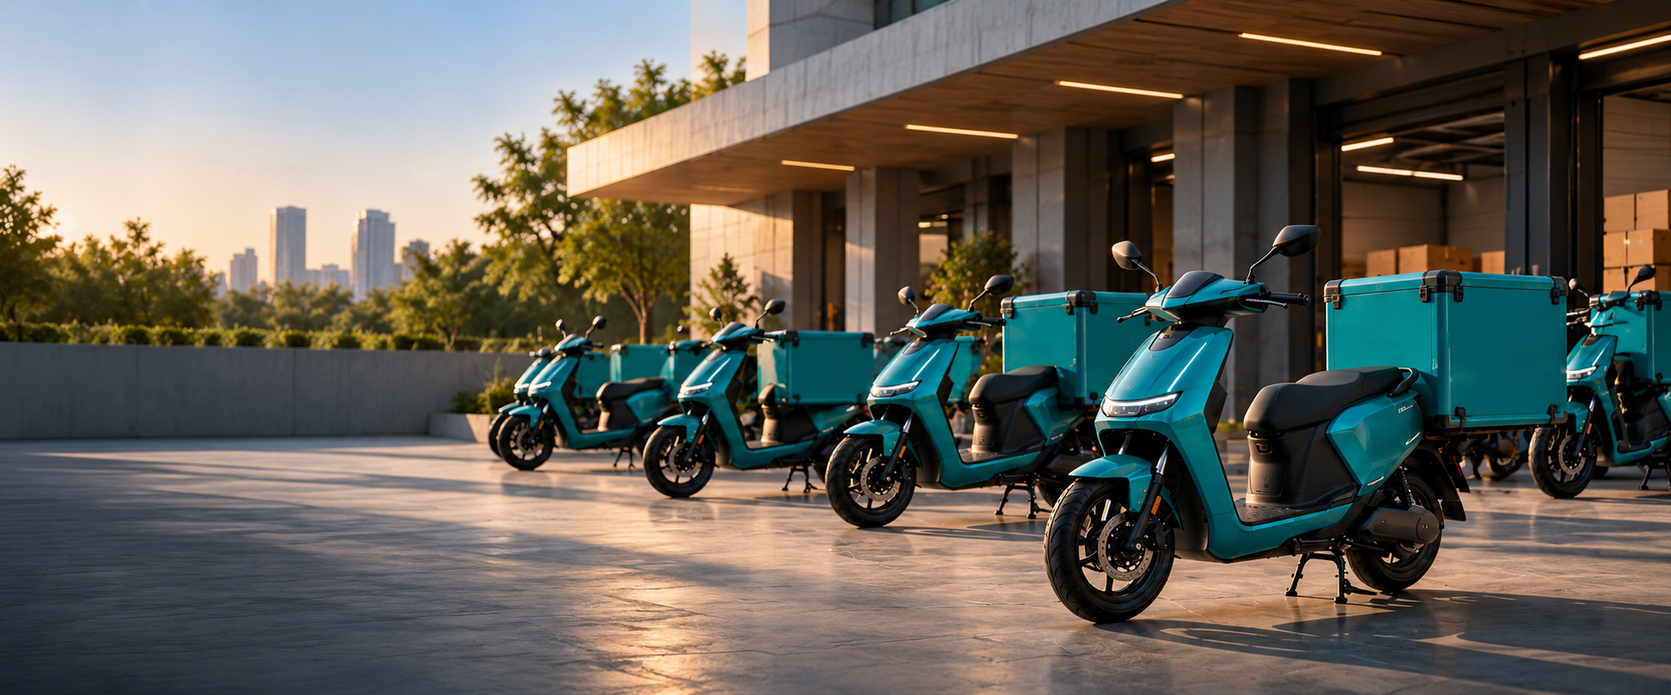
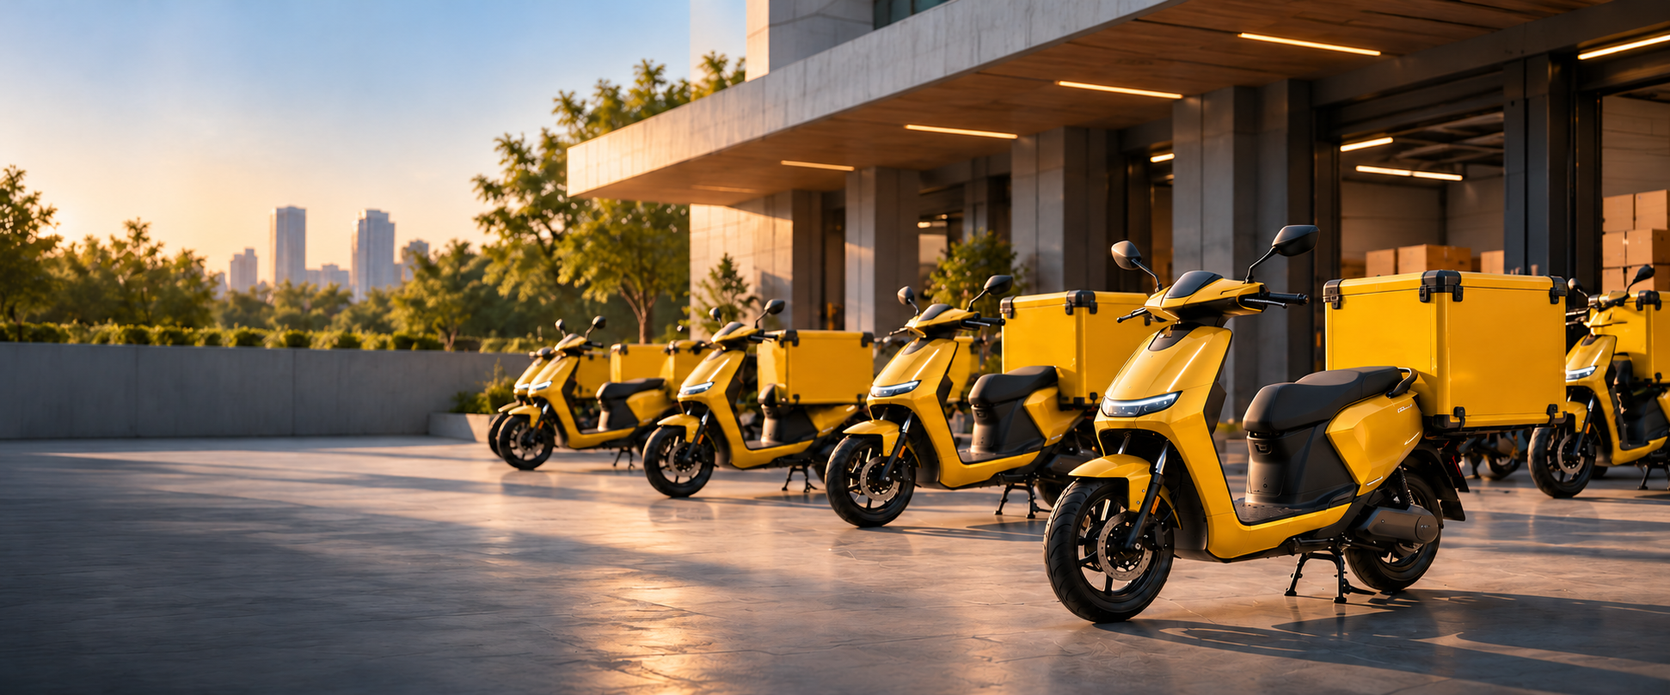
Add themed Arthasya interactions

diff --git a/src/arthasya.css b/src/arthasya.css
@@ -1,4 +1,15 @@
-:root{--arth-bg:#f5f4ef;--arth-ink:#142a32;--arth-teal:#1ca6aa;--arth-muted:#677478;--arth-line:#142a3226;--arth-gutter:clamp(22px,5vw,88px);font-family:Arial,Helvetica,sans-serif;color:var(--arth-ink);background:var(--arth-bg);color-scheme:light;font-synthesis:none}*{box-sizing:border-box}html{scroll-behavior:smooth;scroll-padding-top:80px}body{margin:0;overflow-x:hidden}h1,h2,h3,p{margin:0}a{color:inherit;text-decoration:none}button{font:inherit;color:inherit;cursor:pointer;border:0;background:none}img{display:block;max-width:100%}button,a{-webkit-tap-highlight-color:transparent}button:focus-visible,a:focus-visible{outline:3px solid #f15b4d;outline-offset:4px}[hidden]{display:none!important}.arth-container{margin-inline:var(--arth-gutter)}.arth-skip{position:fixed;top:-100px;left:20px;padding:12px 16px;background:var(--arth-ink);color:#fff;z-index:100}.arth-skip:focus{top:12px}.arth-header{height:82px;display:flex;align-items:center;justify-content:space-between;padding:10px var(--arth-gutter);position:absolute;inset:0 0 auto;z-index:10;color:#fff;background:linear-gradient(#08181bcc,transparent)}.arth-brand{display:block;width:100px}.arth-logo{width:100%;height:auto}.arth-nav{display:flex;align-items:center;gap:34px;font-size:13px}.arth-nav a{min-height:40px;display:flex;align-items:center}.arth-outline{border:1px solid #ffffff9c;color:#fff;min-height:40px;padding:8px 20px;font-size:13px}.arth-outline:hover{background:#fff1}.arth-menu-toggle,.arth-mobile-nav{display:none}.arth-slider{position:relative;height:min(780px,100svh);min-height:610px;background:#12252c;color:#fff;isolation:isolate}.arth-slides,.arth-slide{position:absolute;inset:0}.arth-slide{opacity:0;visibility:hidden;transition:opacity .65s ease,visibility .65s ease}.arth-slide.is-active{opacity:1;visibility:visible;z-index:1}.arth-slide-image{width:100%;height:100%;object-fit:cover;object-position:center}.arth-slide-shade{position:absolute;inset:0;background:linear-gradient(90deg,#08181dcc 0%,#08181d9e 27%,#08181d05 68%),linear-gradient(0deg,#08181da8 0%,transparent 40%)}.arth-slide-copy{position:absolute;left:var(--arth-gutter);bottom:clamp(130px,15vh,185px);max-width:550px}.arth-eyebrow{font-size:11px;font-weight:700;letter-spacing:.2em;line-height:1.5;color:#91d3cd;text-transform:uppercase}.arth-slide h1{font-size:clamp(48px,7vw,108px);line-height:.98;letter-spacing:-.06em;margin-top:18px;max-width:600px}.arth-slide-copy>p:not(.arth-eyebrow){font-size:clamp(16px,1.5vw,22px);line-height:1.45;color:#e9efea;max-width:420px;margin-top:22px}.arth-button{display:inline-flex;align-items:center;justify-content:space-between;gap:24px;min-height:52px;background:var(--arth-teal);color:#06262d;padding:14px 20px;font-size:14px;font-weight:700;transition:background .2s,transform .2s}.arth-button:hover{background:#5bc6c1;transform:translateY(-2px)}.arth-slide-link{margin-top:30px}.arth-arrow{width:21px;height:21px;flex-shrink:0}.arth-slider-chrome{position:absolute;left:var(--arth-gutter);right:var(--arth-gutter);bottom:28px;z-index:3}.arth-slider-controls{display:flex;align-items:center;gap:10px}.arth-slider-arrow,.arth-slider-pause{height:42px;min-width:42px;border:1px solid #fff8;color:#fff;display:inline-flex;align-items:center;justify-content:center}.arth-slider-arrow{font-size:22px}.arth-slider-arrow:hover,.arth-slider-pause:hover{background:#fff2}.arth-slider-pause{gap:8px;padding:0 13px;font-size:12px}.arth-pause-icon{font-size:12px;letter-spacing:-3px}.arth-slider-count{margin-left:auto;font-size:12px;color:#d3e1df;letter-spacing:.08em}.arth-slider-count strong{font-size:18px;color:#fff;margin-right:4px}.arth-slider-tabs{display:flex;gap:28px;border-top:1px solid #ffffff4d;margin-top:18px;padding-top:16px}.arth-slide-tab{display:flex;align-items:center;gap:10px;color:#d7e1de;font-size:12px;opacity:.72;position:relative}.arth-slide-tab span{font-size:10px;color:#9ed6d1}.arth-slide-tab.is-active,.arth-slide-tab:hover{opacity:1;color:#fff}.arth-slide-tab.is-active:after{content:'';position:absolute;left:0;right:0;top:-17px;height:2px;background:#91d3cd}.arth-progress{height:2px;background:#ffffff38;margin-top:12px;display:none}.arth-progress span{display:block;height:100%;width:25%;background:#91d3cd;transition:width .35s}.arth-businesses{padding-top:105px;padding-bottom:110px}.arth-section-heading{display:grid;grid-template-columns:1fr 1.3fr 1fr;align-items:end;gap:30px;border-bottom:1px solid var(--arth-line);padding-bottom:30px}.arth-section-heading h2{font-size:clamp(40px,5vw,76px);line-height:.98;letter-spacing:-.06em}.arth-section-heading>p:last-child{font-size:16px;line-height:1.5;color:var(--arth-muted);max-width:250px}.arth-business-list{margin-top:28px}.arth-business-row{display:grid;grid-template-columns:64px minmax(280px,43%) 1fr;gap:28px;align-items:center;border-bottom:1px solid var(--arth-line);padding:28px 0}.arth-business-index{font-size:12px;letter-spacing:.1em;color:#849398;align-self:start;padding-top:9px}.arth-business-photo{aspect-ratio:16/8;overflow:hidden;background:#dce4e0}.arth-business-photo img{width:100%;height:100%;object-fit:cover;transition:transform .6s ease}.arth-business-row:hover .arth-business-photo img{transform:scale(1.04)}.arth-business-copy{padding-right:8%;}.arth-business-copy h3{font-size:clamp(28px,3vw,46px);line-height:1;letter-spacing:-.05em;margin-top:10px}.arth-business-copy>p:not(.arth-eyebrow){font-size:16px;line-height:1.45;color:var(--arth-muted);margin-top:12px;max-width:360px}.arth-text-link{display:inline-flex;align-items:center;gap:15px;color:#087f83;font-size:14px;font-weight:700;min-height:40px;margin-top:14px}.arth-text-link:hover{color:#f15b4d}.arth-text-link .arth-arrow{transition:transform .2s}.arth-text-link:hover .arth-arrow{transform:translateX(5px)}.arth-movement{display:flex;align-items:center;justify-content:space-between;gap:32px;padding:58px var(--arth-gutter);background:var(--arth-ink);color:#fff}.arth-movement h2{font-size:clamp(40px,5vw,74px);line-height:1;letter-spacing:-.06em;margin-top:12px}.arth-movement .arth-button{flex-shrink:0}.arth-footer{display:grid;grid-template-columns:1.5fr 1fr 1fr;gap:40px;padding-top:46px}.arth-footer-brand{max-width:170px}.arth-footer-brand p{font-size:13px;line-height:1.5;color:var(--arth-muted);margin-top:12px}.arth-footer nav{display:flex;flex-direction:column;align-items:flex-start;gap:6px;padding-top:6px}.arth-footer-link,.arth-footer-contact{font-size:14px;color:var(--arth-muted);min-height:30px;display:inline-flex;align-items:center;gap:10px}.arth-footer-link:hover,.arth-footer-contact:hover{color:#087f83}.arth-footer-contact{justify-self:end;padding-top:6px}.arth-footer-bottom{grid-column:1/-1;display:flex;justify-content:space-between;border-top:1px solid var(--arth-line);padding:18px 0 24px;color:#839196;font-size:12px}.arth-dialog{border:1px solid var(--arth-line);background:var(--arth-bg);color:var(--arth-ink);padding:42px;width:min(540px,calc(100% - 32px))}.arth-dialog::backdrop{background:#102a328c;backdrop-filter:blur(4px)}.arth-dialog h2{font-size:36px;line-height:1.05;letter-spacing:-.05em;margin:16px 0}.arth-dialog>p:not(.arth-eyebrow){font-size:16px;line-height:1.6}.arth-dialog-note{color:var(--arth-muted);margin:18px 0}.arth-dialog-close{position:absolute;right:12px;top:12px;width:36px;height:36px}.arth-dialog-close svg{width:22px}.arth-dialog[open]{animation:arth-dialog-in .2s ease-out}@keyframes arth-dialog-in{from{opacity:0;transform:translateY(8px)}to{opacity:1;transform:none}}body:has(.arth-dialog[open]){overflow:hidden}
+:root{--arth-bg:#f5f4ef;--arth-ink:#142a32;--arth-teal:#1ca6aa;--arth-muted:#677478;--arth-line:#142a3226;--arth-gutter:clamp(22px,5vw,88px);font-family:Arial,Helvetica,sans-serif;color:var(--arth-ink);background:var(--arth-bg);color-scheme:light;font-synthesis:none}
+*{box-sizing:border-box}html{scroll-behavior:smooth;scroll-padding-top:80px}body{margin:0;overflow-x:hidden}h1,h2,h3,p{margin:0}a{color:inherit;text-decoration:none}button{font:inherit;color:inherit;cursor:pointer;border:0;background:none}img{display:block;max-width:100%}button,a{-webkit-tap-highlight-color:transparent}button:focus-visible,a:focus-visible{outline:3px solid #f15b4d;outline-offset:4px}[hidden]{display:none!important}.arth-container{margin-inline:var(--arth-gutter)}
+.arth-skip{position:fixed;top:-100px;left:20px;padding:12px 16px;background:var(--arth-ink);color:#fff;z-index:100}.arth-skip:focus{top:12px}.arth-header{height:82px;display:flex;align-items:center;justify-content:space-between;padding:10px var(--arth-gutter);position:absolute;inset:0 0 auto;z-index:10;color:#fff;background:linear-gradient(#08181bcc,transparent)}.arth-brand{display:block;width:100px}.arth-logo{width:100%;height:auto}.arth-nav{display:flex;align-items:center;gap:34px;font-size:13px}.arth-nav a{min-height:40px;display:flex;align-items:center}.arth-outline{border:1px solid #ffffff9c;color:#fff;min-height:40px;padding:8px 20px;font-size:13px}.arth-outline:hover{background:#fff1}.arth-menu-toggle,.arth-mobile-nav{display:none}
+.arth-slider{--slide-accent:#42c6c2;position:relative;height:min(780px,100svh);min-height:610px;background:#12252c;color:#fff;isolation:isolate}.arth-slides,.arth-slide{position:absolute;inset:0}.arth-slide{opacity:0;visibility:hidden;transition:opacity .65s ease,visibility .65s ease}.arth-slide.is-active{opacity:1;visibility:visible;z-index:1}.arth-slide-image{width:100%;height:100%;object-fit:cover;object-position:center;transform:scale(1.035) translate3d(var(--hero-x,0),var(--hero-y,0),0);transition:transform 1.2s cubic-bezier(.2,.7,.2,1)}.arth-slide-shade{position:absolute;inset:0;background:linear-gradient(90deg,#08181dcc 0%,#08181d9e 27%,#08181d05 68%),linear-gradient(0deg,#08181da8 0%,transparent 40%)}.arth-slide-copy{position:absolute;left:var(--arth-gutter);bottom:clamp(130px,15vh,185px);max-width:550px}.arth-eyebrow{font-size:11px;font-weight:700;letter-spacing:.2em;line-height:1.5;color:var(--slide-accent,#91d3cd);text-transform:uppercase}.arth-slide h1{font-size:clamp(48px,7vw,108px);line-height:.98;letter-spacing:-.06em;margin-top:18px;max-width:600px}.arth-slide-copy>p:not(.arth-eyebrow){font-size:clamp(16px,1.5vw,22px);line-height:1.45;color:#e9efea;max-width:420px;margin-top:22px}.arth-button{display:inline-flex;align-items:center;justify-content:space-between;gap:24px;min-height:52px;background:var(--slide-accent,var(--arth-teal));color:#06262d;padding:14px 20px;font-size:14px;font-weight:700;transition:background .2s,transform .2s}.arth-button:hover{background:#fff;transform:translateY(-2px)}.arth-slide-link{margin-top:30px}.arth-arrow{width:21px;height:21px;flex-shrink:0}
+.arth-slider-chrome{position:absolute;left:var(--arth-gutter);right:var(--arth-gutter);bottom:28px;z-index:3}.arth-slider-controls{display:flex;align-items:center;gap:10px}.arth-slider-arrow,.arth-slider-pause{height:42px;min-width:42px;border:1px solid #fff8;color:#fff;display:inline-flex;align-items:center;justify-content:center}.arth-slider-arrow{font-size:22px}.arth-slider-arrow:hover,.arth-slider-pause:hover{background:#fff2}.arth-slider-pause{gap:8px;padding:0 13px;font-size:12px}.arth-pause-icon{font-size:12px;letter-spacing:-3px}.arth-slider-count{margin-left:auto;font-size:12px;color:#d3e1df;letter-spacing:.08em}.arth-slider-count strong{font-size:18px;color:#fff;margin-right:4px}.arth-slider-tabs{display:flex;gap:28px;border-top:1px solid #ffffff4d;margin-top:18px;padding-top:16px}.arth-slide-tab{display:flex;align-items:center;gap:10px;color:#d7e1de;font-size:12px;opacity:.72;position:relative}.arth-slide-tab span{font-size:10px;color:var(--slide-accent,#9ed6d1)}.arth-slide-tab.is-active,.arth-slide-tab:hover{opacity:1;color:#fff}.arth-slide-tab.is-active:after{content:'';position:absolute;left:0;right:0;top:-17px;height:2px;background:var(--slide-accent)}.arth-progress{height:2px;background:#ffffff38;margin-top:12px;display:none}.arth-progress span{display:block;height:100%;width:25%;background:var(--slide-accent);transition:width .35s}
+.arth-businesses{padding-top:105px;padding-bottom:110px}.arth-section-heading{display:grid;grid-template-columns:1fr 1.3fr 1fr;align-items:end;gap:30px;border-bottom:1px solid var(--arth-line);padding-bottom:30px}.arth-section-heading h2{font-size:clamp(40px,5vw,76px);line-height:.98;letter-spacing:-.06em}.arth-section-heading>p:last-child{font-size:16px;line-height:1.5;color:var(--arth-muted);max-width:250px}.arth-business-list{margin-top:28px}.arth-business-row{--row-accent:#42c6c2;--slide-accent:var(--row-accent);position:relative;display:grid;grid-template-columns:64px minmax(280px,43%) 1fr;gap:28px;align-items:center;border-bottom:1px solid var(--arth-line);padding:28px 0;transition:background .35s ease}.arth-business-row::before{content:'';position:absolute;left:-18px;top:20%;bottom:20%;width:3px;background:var(--row-accent);transform:scaleY(0);transform-origin:center;transition:transform .45s ease}.arth-business-row.is-featured,.arth-business-row:hover{background:color-mix(in srgb,var(--row-accent) 6%,transparent)}.arth-business-row.is-featured::before,.arth-business-row:hover::before{transform:scaleY(1)}.arth-business-index{font-size:12px;letter-spacing:.1em;color:var(--row-accent);align-self:start;padding-top:9px}.arth-business-photo{aspect-ratio:16/8;overflow:hidden;background:#dce4e0}.arth-business-photo img{width:100%;height:100%;object-fit:cover;transform:translate3d(var(--row-x,0),var(--row-y,0),0) scale(1.01);transition:transform .6s cubic-bezier(.2,.7,.2,1)}.arth-business-row:hover .arth-business-photo img{transform:translate3d(var(--row-x,0),var(--row-y,0),0) scale(1.05)}.arth-business-copy{padding-right:8%}.arth-business-copy h3{font-size:clamp(28px,3vw,46px);line-height:1;letter-spacing:-.05em;margin-top:10px}.arth-business-copy>p:not(.arth-eyebrow){font-size:16px;line-height:1.45;color:var(--arth-muted);margin-top:12px;max-width:360px}.arth-text-link{display:inline-flex;align-items:center;gap:15px;color:var(--row-accent);font-size:14px;font-weight:700;min-height:40px;margin-top:14px}.arth-text-link:hover{color:#f15b4d}.arth-text-link .arth-arrow{transition:transform .2s}.arth-text-link:hover .arth-arrow{transform:translateX(5px)}
+.arth-movement{display:flex;align-items:center;justify-content:space-between;gap:32px;padding:58px var(--arth-gutter);background:var(--arth-ink);color:#fff}.arth-movement h2{font-size:clamp(40px,5vw,74px);line-height:1;letter-spacing:-.06em;margin-top:12px}.arth-movement .arth-button{flex-shrink:0}.arth-footer{display:grid;grid-template-columns:1.5fr 1fr 1fr;gap:40px;padding-top:46px}.arth-footer-brand{max-width:170px}.arth-footer-brand p{font-size:13px;line-height:1.5;color:var(--arth-muted);margin-top:12px}.arth-footer nav{display:flex;flex-direction:column;align-items:flex-start;gap:6px;padding-top:6px}.arth-footer-link,.arth-footer-contact{font-size:14px;color:var(--arth-muted);min-height:30px;display:inline-flex;align-items:center;gap:10px}.arth-footer-link:hover,.arth-footer-contact:hover{color:#087f83}.arth-footer-contact{justify-self:end;padding-top:6px}.arth-footer-bottom{grid-column:1/-1;display:flex;justify-content:space-between;border-top:1px solid var(--arth-line);padding:18px 0 24px;color:#839196;font-size:12px}
+.arth-dialog{border:1px solid var(--arth-line);background:var(--arth-bg);color:var(--arth-ink);padding:42px;width:min(540px,calc(100% - 32px))}.arth-dialog::backdrop{background:#102a328c;backdrop-filter:blur(4px)}.arth-dialog h2{font-size:36px;line-height:1.05;letter-spacing:-.05em;margin:16px 0}.arth-dialog>p:not(.arth-eyebrow){font-size:16px;line-height:1.6}.arth-dialog-note{color:var(--arth-muted);margin:18px 0}.arth-dialog-close{position:absolute;right:12px;top:12px;width:36px;height:36px}.arth-dialog-close svg{width:22px}.arth-dialog[open]{animation:arth-dialog-in .2s ease-out}@keyframes arth-dialog-in{from{opacity:0;transform:translateY(8px)}to{opacity:1;transform:none}}body:has(.arth-dialog[open]){overflow:hidden}
 @media(max-width:900px){.arth-slider{min-height:620px}.arth-slide-copy{max-width:470px}.arth-section-heading{grid-template-columns:1fr 1.4fr;gap:18px}.arth-section-heading>p:last-child{grid-column:2}.arth-business-row{grid-template-columns:42px minmax(220px,45%) 1fr;gap:18px}.arth-business-copy{padding-right:0}}
-@media(max-width:680px){.arth-header{height:70px;padding-block:8px}.arth-brand{width:78px}.arth-nav{display:none}.arth-menu-toggle{display:flex;width:42px;height:42px;flex-direction:column;justify-content:center;gap:6px;padding:10px}.arth-menu-toggle span{height:2px;width:22px;background:#fff;transition:transform .2s}.arth-menu-toggle[aria-expanded=true] span:first-child{transform:translateY(4px) rotate(45deg)}.arth-menu-toggle[aria-expanded=true] span:last-child{transform:translateY(-4px) rotate(-45deg)}.arth-mobile-nav{position:absolute;display:flex;flex-direction:column;gap:4px;inset:70px 0 auto;background:var(--arth-ink);padding:16px var(--arth-gutter) 22px;border-top:1px solid #fff3}.arth-mobile-nav a,.arth-mobile-nav button{min-height:45px;text-align:left;color:#fff;font-size:16px}.arth-slider{height:calc(100svh - 0px);min-height:620px}.arth-slide-image{object-position:60% center}.arth-slide-shade{background:linear-gradient(90deg,#08181dd9 0%,#08181d80 58%,#08181d10),linear-gradient(0deg,#08181db8 0%,transparent 48%)}.arth-slide-copy{left:var(--arth-gutter);right:var(--arth-gutter);bottom:145px}.arth-slide h1{font-size:clamp(46px,14vw,72px);max-width:360px}.arth-slide-copy>p:not(.arth-eyebrow){font-size:16px;max-width:300px;margin-top:16px}.arth-slide-link{margin-top:22px}.arth-slider-chrome{left:var(--arth-gutter);right:var(--arth-gutter);bottom:22px}.arth-slider-tabs{gap:16px;margin-top:14px;padding-top:13px;overflow-x:auto;scrollbar-width:none}.arth-slider-tabs::-webkit-scrollbar{display:none}.arth-slide-tab{font-size:10px;white-space:nowrap}.arth-slide-tab.is-active:after{top:-14px}.arth-progress{display:block}.arth-businesses{padding-top:70px;padding-bottom:70px}.arth-section-heading{grid-template-columns:1fr;gap:14px;padding-bottom:24px}.arth-section-heading h2{font-size:clamp(44px,13vw,66px)}.arth-section-heading>p:last-child{grid-column:auto;max-width:300px}.arth-business-row{grid-template-columns:28px 1fr;gap:12px;padding:24px 0}.arth-business-photo{grid-column:2;aspect-ratio:1.4}.arth-business-copy{grid-column:2}.arth-business-copy h3{font-size:33px}.arth-business-copy>p:not(.arth-eyebrow){font-size:15px}.arth-movement{align-items:flex-start;flex-direction:column;padding-block:48px}.arth-movement h2{font-size:51px}.arth-footer{grid-template-columns:1fr 1fr;gap:24px 30px;padding-top:34px}.arth-footer-brand{grid-column:1/-1;max-width:130px}.arth-footer-contact{justify-self:start;padding-top:6px}.arth-footer-bottom{flex-direction:column;gap:7px}.arth-dialog{padding:38px 24px 26px}.arth-dialog h2{font-size:31px}}
-@media(prefers-reduced-motion:reduce){html{scroll-behavior:auto}.arth-slide,.arth-business-photo img,.arth-button{transition:none!important}}
+@media(max-width:680px){.arth-header{height:70px;padding-block:8px}.arth-brand{width:78px}.arth-nav{display:none}.arth-menu-toggle{display:flex;width:42px;height:42px;flex-direction:column;justify-content:center;gap:6px;padding:10px}.arth-menu-toggle span{height:2px;width:22px;background:#fff;transition:transform .2s}.arth-menu-toggle[aria-expanded=true] span:first-child{transform:translateY(4px) rotate(45deg)}.arth-menu-toggle[aria-expanded=true] span:last-child{transform:translateY(-4px) rotate(-45deg)}.arth-mobile-nav{position:absolute;display:flex;flex-direction:column;gap:4px;inset:70px 0 auto;background:var(--arth-ink);padding:16px var(--arth-gutter) 22px;border-top:1px solid #fff3}.arth-mobile-nav a,.arth-mobile-nav button{min-height:45px;text-align:left;color:#fff;font-size:16px}.arth-slider{height:100svh;min-height:620px}.arth-slide-image{object-position:60% center}.arth-slide-shade{background:linear-gradient(90deg,#08181dd9 0%,#08181d80 58%,#08181d10),linear-gradient(0deg,#08181db8 0%,transparent 48%)}.arth-slide-copy{left:var(--arth-gutter);right:var(--arth-gutter);bottom:145px}.arth-slide h1{font-size:clamp(46px,14vw,72px);max-width:360px}.arth-slide-copy>p:not(.arth-eyebrow){font-size:16px;max-width:300px;margin-top:16px}.arth-slide-link{margin-top:22px}.arth-slider-chrome{left:var(--arth-gutter);right:var(--arth-gutter);bottom:22px}.arth-slider-tabs{gap:16px;margin-top:14px;padding-top:13px;overflow-x:auto;scrollbar-width:none}.arth-slider-tabs::-webkit-scrollbar{display:none}.arth-slide-tab{font-size:10px;white-space:nowrap}.arth-slide-tab.is-active:after{top:-14px}.arth-progress{display:block}.arth-businesses{padding-top:70px;padding-bottom:70px}.arth-section-heading{grid-template-columns:1fr;gap:14px;padding-bottom:24px}.arth-section-heading h2{font-size:clamp(44px,13vw,66px)}.arth-section-heading>p:last-child{grid-column:auto;max-width:300px}.arth-business-row{grid-template-columns:28px 1fr;gap:12px;padding:24px 0}.arth-business-row::before{left:-10px}.arth-business-photo{grid-column:2;aspect-ratio:1.4}.arth-business-copy{grid-column:2}.arth-business-copy h3{font-size:33px}.arth-business-copy>p:not(.arth-eyebrow){font-size:15px}.arth-movement{align-items:flex-start;flex-direction:column;padding-block:48px}.arth-movement h2{font-size:51px}.arth-footer{grid-template-columns:1fr 1fr;gap:24px 30px;padding-top:34px}.arth-footer-brand{grid-column:1/-1;max-width:130px}.arth-footer-contact{justify-self:start;padding-top:6px}.arth-footer-bottom{flex-direction:column;gap:7px}.arth-dialog{padding:38px 24px 26px}.arth-dialog h2{font-size:31px}}
+@media(prefers-reduced-motion:reduce){html{scroll-behavior:auto}.arth-slide,.arth-slide-image,.arth-business-row,.arth-business-photo img,.arth-button{transition:none!important}.arth-slide-image{transform:none!important}}
+.arth-slides{overflow:hidden}
+.arth-slider[data-theme="export"]{--slide-accent:#f0b54a}.arth-slider[data-theme="pravah"]{--slide-accent:#42c6c2}.arth-slider[data-theme="urja"]{--slide-accent:#4ddf8c}.arth-slider[data-theme="gati"]{--slide-accent:#f2c14e}.arth-slide[data-slide="export"]{--slide-accent:#f0b54a}.arth-slide[data-slide="pravah"]{--slide-accent:#42c6c2}.arth-slide[data-slide="urja"]{--slide-accent:#4ddf8c}.arth-slide[data-slide="gati"]{--slide-accent:#f2c14e}
+.arth-business-row[data-theme="export"]{--row-accent:#f0b54a}.arth-business-row[data-theme="pravah"]{--row-accent:#42c6c2}.arth-business-row[data-theme="urja"]{--row-accent:#4ddf8c}.arth-business-row[data-theme="gati"]{--row-accent:#f2c14e}
+.arth-slider.is-pointer-left .arth-slide-image{transform:scale(1.045) translate3d(4px,0,0)}.arth-slider.is-pointer-right .arth-slide-image{transform:scale(1.045) translate3d(-4px,0,0)}.arth-slider.is-pointer-up .arth-slide-image{transform:scale(1.045) translate3d(0,3px,0)}.arth-slider.is-pointer-down .arth-slide-image{transform:scale(1.045) translate3d(0,-3px,0)}.arth-business-row.is-pointer-hover .arth-business-photo img{transform:scale(1.05) translate3d(3px,-2px,0)}

diff --git a/src/arthasya.js b/src/arthasya.js
@@ -2,19 +2,19 @@
 export const parentAssets = '/assets/arthasya';
 export const arrow = '<svg class="arth-arrow" viewBox="0 0 24 24" fill="none" stroke="currentColor" stroke-width="1.6" aria-hidden="true"><path d="M4 12h15M13 5l7 7-7 7"/></svg>';
 export const businesses = [
-  {id:'export', name:'Export', label:'Spices & turmeric', title:'Trade that travels.', description:'Spices and turmeric, prepared for the next destination.', action:'Explore exports', photo:'export', alt:'Turmeric roots, golden turmeric powder and whole spices', detail:'Arthasya export enquiries for spices and turmeric will be available when verified business details are confirmed.'},
-  {id:'pravah', name:'arth.pravah', label:'Electric mobility', title:'Electric, every day.', description:'A calmer, cleaner way to move through the city.', action:'Explore EV bikes', photo:'pravah', alt:'Teal electric scooter in a sunlit architectural courtyard', href:'/arth.pravah'},
-  {id:'urja', name:'arth.urja', label:'Charging stations', title:'Charge the next move.', description:'Charging infrastructure designed around everyday movement.', action:'Explore charging', photo:'urja', alt:'Teal electric scooter connected to a charging station', detail:'arth.urja charging locations and access details will be available when verified business details are confirmed.'},
-  {id:'gati', name:'arth.gati', label:'Fleet services', title:'Fleet built to move.', description:'Electric bikes and cargo-ready fleet service for moving work forward.', action:'Explore fleet services', photo:'gati', alt:'Coordinated teal electric bikes with cargo boxes outside a modern depot', detail:'arth.gati fleet configurations and service coverage will be available when verified business details are confirmed.'}
+  {id:'export', name:'Export', label:'Spices & turmeric', title:'Trade that travels.', description:'Spices and turmeric, prepared for the next destination.', action:'Explore exports', photo:'export', alt:'Turmeric roots, golden turmeric powder and whole spices', accent:'#f0b54a', detail:'Arthasya export enquiries for spices and turmeric will be available when verified business details are confirmed.'},
+  {id:'pravah', name:'arth.pravah', label:'Electric mobility', title:'Electric, every day.', description:'A calmer, cleaner way to move through the city.', action:'Explore EV bikes', photo:'pravah', alt:'Teal electric scooter in a sunlit architectural courtyard', accent:'#42c6c2', href:'/arth.pravah'},
+  {id:'urja', name:'arth.urja', label:'Charging stations', title:'Charge the next move.', description:'Charging infrastructure designed around everyday movement.', action:'Explore charging', photo:'urja', alt:'Green electric scooter connected to a green charging station', accent:'#4ddf8c', detail:'arth.urja charging locations and access details will be available when verified business details are confirmed.'},
+  {id:'gati', name:'arth.gati', label:'Fleet services', title:'Fleet built to move.', description:'Electric bikes and cargo-ready fleet service for moving work forward.', action:'Explore fleet services', photo:'gati', alt:'Coordinated yellow electric bikes with yellow cargo boxes outside a modern depot', accent:'#f2c14e', detail:'arth.gati fleet configurations and service coverage will be available when verified business details are confirmed.'}
 ];
 export const slides = businesses;
 const logo = (className='') => `<img class="arth-logo ${className}" src="${parentAssets}/logo-transparent.png" alt="Arthasya — Value with purpose" width="480" height="510">`;
 const businessLink = (b, content, classes='') => b.href ? `<a class="${classes}" href="${b.href}">${content}</a>` : `<button class="${classes}" type="button" data-business="${b.id}" aria-haspopup="dialog">${content}</button>`;
 
 export function parentHeader(){return `<a class="arth-skip" href="#main">Skip to content</a><header class="arth-header"><a class="arth-brand" href="/" aria-label="Arthasya home">${logo()}</a><nav class="arth-nav" aria-label="Main navigation"><a href="#businesses">Businesses</a><a href="#contact">Contact</a><button class="arth-outline" type="button" data-contact aria-haspopup="dialog">Connect</button></nav><button class="arth-menu-toggle" type="button" aria-expanded="false" aria-controls="arth-mobile-nav" aria-label="Open navigation"><span></span><span></span></button><nav id="arth-mobile-nav" class="arth-mobile-nav" aria-label="Mobile navigation" hidden><a href="#businesses">Businesses</a><a href="#contact">Contact</a><button type="button" data-contact aria-haspopup="dialog">Connect</button></nav></header>`;}
-const slideMarkup = (slide, index) => `<article class="arth-slide${index===0?' is-active':''}" data-slide="${slide.id}" aria-hidden="${index===0?'false':'true'}"><img class="arth-slide-image" src="${parentAssets}/slide-${slide.photo}.png" alt="${slide.alt}"${index===0?'':' loading="lazy"'}><div class="arth-slide-shade"></div><div class="arth-slide-copy"><p class="arth-eyebrow">${slide.label}</p><h1>${slide.title}</h1><p>${slide.description}</p>${businessLink(slide, `${slide.action} ${arrow}`, 'arth-button arth-slide-link')}</div></article>`;
+const slideMarkup = (slide, index) => `<article class="arth-slide${index===0?' is-active':''}" data-slide="${slide.id}" aria-hidden="${index===0?'false':'true'}"><img class="arth-slide-image" src="${parentAssets}/slide-${slide.photo}.png" alt="${slide.alt}"><div class="arth-slide-shade"></div><div class="arth-slide-copy"><p class="arth-eyebrow">${slide.label}</p><h1>${slide.title}</h1><p>${slide.description}</p>${businessLink(slide, `${slide.action} ${arrow}`, 'arth-button arth-slide-link')}</div></article>`;
 const slideTab = (slide, index) => `<button type="button" class="arth-slide-tab${index===0?' is-active':''}" data-slide-select="${slide.id}" aria-label="Show ${slide.name}" aria-current="${index===0?'true':'false'}"><span>${String(index+1).padStart(2,'0')}</span>${slide.name}</button>`;
-export function parentHome(){return `<section class="arth-slider" data-slider tabindex="0" aria-roledescription="carousel" aria-label="Arthasya businesses"><div class="arth-slides">${slides.map(slideMarkup).join('')}</div><div class="arth-slider-chrome"><div class="arth-slider-controls"><button class="arth-slider-arrow" type="button" data-slider-prev aria-label="Previous slide"><span aria-hidden="true">←</span></button><button class="arth-slider-arrow" type="button" data-slider-next aria-label="Next slide"><span aria-hidden="true">→</span></button><button class="arth-slider-pause" type="button" data-slider-pause aria-pressed="false"><span class="arth-pause-icon" aria-hidden="true">Ⅱ</span><span data-pause-label>Pause</span></button><span class="arth-slider-count" aria-live="polite"><strong data-slide-current>01</strong><span>/ 04</span></span></div><div class="arth-slider-tabs" role="tablist" aria-label="Choose a business slide">${slides.map(slideTab).join('')}</div><div class="arth-progress" aria-hidden="true"><span data-slide-progress></span></div></div></section>
-<section class="arth-businesses arth-container" id="businesses" aria-labelledby="businesses-title"><div class="arth-section-heading"><p class="arth-eyebrow">ARTHASYA / BUSINESSES</p><h2 id="businesses-title">Four ways forward.</h2><p>Distinct businesses, one shared direction: value with purpose.</p></div><div class="arth-business-list">${businesses.map((b,i)=>`<article class="arth-business-row" id="business-${b.id}"><div class="arth-business-index">0${i+1}</div><div class="arth-business-photo"><img src="${parentAssets}/slide-${b.photo}.png" alt="${b.alt}" loading="lazy"></div><div class="arth-business-copy"><p class="arth-eyebrow">${b.label}</p><h3>${b.name}</h3><p>${b.description}</p>${businessLink(b, `${b.action} ${arrow}`, 'arth-text-link')}</div></article>`).join('')}</div></section>
+export function parentHome(){return `<section class="arth-slider" data-slider data-theme="export" tabindex="0" aria-roledescription="carousel" aria-label="Arthasya businesses"><div class="arth-slides">${slides.map(slideMarkup).join('')}</div><div class="arth-slider-chrome"><div class="arth-slider-controls"><button class="arth-slider-arrow" type="button" data-slider-prev aria-label="Previous slide"><span aria-hidden="true">←</span></button><button class="arth-slider-arrow" type="button" data-slider-next aria-label="Next slide"><span aria-hidden="true">→</span></button><button class="arth-slider-pause" type="button" data-slider-pause aria-pressed="false"><span class="arth-pause-icon" aria-hidden="true">Ⅱ</span><span data-pause-label>Pause</span></button><span class="arth-slider-count" aria-live="polite"><strong data-slide-current>01</strong><span>/ 04</span></span></div><div class="arth-slider-tabs" role="tablist" aria-label="Choose a business slide">${slides.map(slideTab).join('')}</div><div class="arth-progress" aria-hidden="true"><span data-slide-progress></span></div></div></section>
+<section class="arth-businesses arth-container" id="businesses" aria-labelledby="businesses-title"><div class="arth-section-heading"><p class="arth-eyebrow">ARTHASYA / BUSINESSES</p><h2 id="businesses-title">Four ways forward.</h2><p>Distinct businesses, one shared direction: value with purpose.</p></div><div class="arth-business-list">${businesses.map((b,i)=>`<article class="arth-business-row" id="business-${b.id}" data-business-row data-theme="${b.id}"><div class="arth-business-index">0${i+1}</div><div class="arth-business-photo"><img src="${parentAssets}/slide-${b.photo}.png" alt="${b.alt}" loading="lazy"></div><div class="arth-business-copy"><p class="arth-eyebrow">${b.label}</p><h3>${b.name}</h3><p>${b.description}</p>${businessLink(b, `${b.action} ${arrow}`, 'arth-text-link')}</div></article>`).join('')}</div></section>
 <section class="arth-movement" id="contact"><div><p class="arth-eyebrow">ARTHASYA</p><h2>Built around movement.</h2></div><button class="arth-button" type="button" data-contact aria-haspopup="dialog">Start a conversation ${arrow}</button></section>`;}
 export function parentFooter(){return `<footer class="arth-footer arth-container"><div class="arth-footer-brand"><a href="/" aria-label="Arthasya home">${logo()}</a><p>Value with purpose.</p></div><nav aria-label="Business links">${businesses.map(b=>businessLink(b,b.name,'arth-footer-link')).join('')}</nav><a class="arth-footer-contact" href="#contact">Contact ${arrow}</a><div class="arth-footer-bottom"><span>© Arthasya</span><span>Exports · Energy · Mobility</span></div></footer><dialog class="arth-dialog" aria-labelledby="arth-dialog-title"><button class="arth-dialog-close" type="button" aria-label="Close dialog"><svg viewBox="0 0 24 24" fill="none" stroke="currentColor" stroke-width="1.6" aria-hidden="true"><path d="m6 6 12 12M6 18 18 6"/></svg></button><p class="arth-eyebrow">ARTHASYA</p><h2 id="arth-dialog-title"></h2><p id="arth-dialog-copy"></p><p class="arth-dialog-note">Verified contact channels are being confirmed. Online enquiries are not yet available.</p><button class="arth-button arth-dialog-done" type="button">Back to exploring ${arrow}</button></dialog>`;}

diff --git a/src/arthasya-client.js b/src/arthasya-client.js
@@ -14,10 +14,11 @@ if(slider){
   const progress=slider.querySelector('[data-slide-progress]');
   const pauseButton=slider.querySelector('[data-slider-pause]');
   const pauseLabel=slider.querySelector('[data-pause-label]');
+  const rows=[...document.querySelectorAll('[data-business-row]')];
   const reduceMotion=window.matchMedia('(prefers-reduced-motion: reduce)');
   let index=Math.max(0,slides.findIndex(s=>s.classList.contains('is-active')));
   let timer=null, playing=!reduceMotion.matches, wasPlaying=playing, pointerStart=null;
-  const render=()=>{slides.forEach((slide,i)=>{const active=i===index;slide.classList.toggle('is-active',active);slide.setAttribute('aria-hidden',String(!active));const link=slide.querySelector('.arth-slide-link');if(link)link.tabIndex=active?0:-1;});tabs.forEach((tab,i)=>{const active=i===index;tab.classList.toggle('is-active',active);tab.setAttribute('aria-current',String(active));});if(current)current.textContent=String(index+1).padStart(2,'0');if(progress)progress.style.width=`${((index+1)/slides.length)*100}%`;};
+  const render=()=>{const activeId=slides[index]?.dataset.slide;slider.dataset.theme=activeId;slides.forEach((slide,i)=>{const active=i===index;slide.classList.toggle('is-active',active);slide.setAttribute('aria-hidden',String(!active));const link=slide.querySelector('.arth-slide-link');if(link)link.tabIndex=active?0:-1;});tabs.forEach((tab,i)=>{const active=i===index;tab.classList.toggle('is-active',active);tab.setAttribute('aria-current',String(active));});rows.forEach(row=>row.classList.toggle('is-featured',row.dataset.theme===activeId));if(current)current.textContent=String(index+1).padStart(2,'0');if(progress)progress.style.width=`${((index+1)/slides.length)*100}%`;};
   const stop=()=>{if(timer){clearInterval(timer);timer=null;}};
   const start=()=>{stop();if(reduceMotion.matches||!playing||document.hidden)return;timer=setInterval(()=>go(index+1),6500);};
   const go=next=>{index=(next+slides.length)%slides.length;render();start();};
@@ -29,6 +30,9 @@ if(slider){
   slider.addEventListener('keydown',event=>{if(event.key==='ArrowRight'){event.preventDefault();setPlaying(false);go(index+1);}if(event.key==='ArrowLeft'){event.preventDefault();setPlaying(false);go(index-1);}if((event.key===' '||event.key==='Enter')&&event.target===slider){event.preventDefault();setPlaying(!playing);}});
   slider.addEventListener('pointerdown',event=>{if(event.target.closest('button,a'))return;pointerStart={x:event.clientX,y:event.clientY};});
   slider.addEventListener('pointerup',event=>{if(!pointerStart)return;const dx=event.clientX-pointerStart.x;const dy=event.clientY-pointerStart.y;pointerStart=null;if(Math.abs(dx)>48&&Math.abs(dx)>Math.abs(dy)){setPlaying(false);go(index+(dx<0?1:-1));}});
+  slider.addEventListener('pointermove',event=>{if(reduceMotion.matches||event.target.closest('button,a'))return;const rect=slider.getBoundingClientRect();const x=(event.clientX-rect.left)/rect.width-.5;const y=(event.clientY-rect.top)/rect.height-.5;slider.classList.toggle('is-pointer-left',x<-.12);slider.classList.toggle('is-pointer-right',x>.12);slider.classList.toggle('is-pointer-up',y<-.12);slider.classList.toggle('is-pointer-down',y>.12);});
+  slider.addEventListener('pointerleave',()=>slider.classList.remove('is-pointer-left','is-pointer-right','is-pointer-up','is-pointer-down'));
+  rows.forEach(row=>{row.addEventListener('pointermove',()=>{if(!reduceMotion.matches)row.classList.add('is-pointer-hover');});row.addEventListener('pointerleave',()=>row.classList.remove('is-pointer-hover'));});
   const observer=new IntersectionObserver(entries=>{const visible=entries[0].isIntersecting;if(!visible){wasPlaying=playing;stop();}else if(wasPlaying&&!reduceMotion.matches){playing=true;start();}},{threshold:.15});observer.observe(slider);
   document.addEventListener('visibilitychange',()=>{if(document.hidden){wasPlaying=playing;stop();}else if(wasPlaying&&!reduceMotion.matches){playing=true;start();}});
   reduceMotion.addEventListener?.('change',event=>{if(event.matches){wasPlaying=playing;setPlaying(false);}else if(wasPlaying){setPlaying(true);}});
